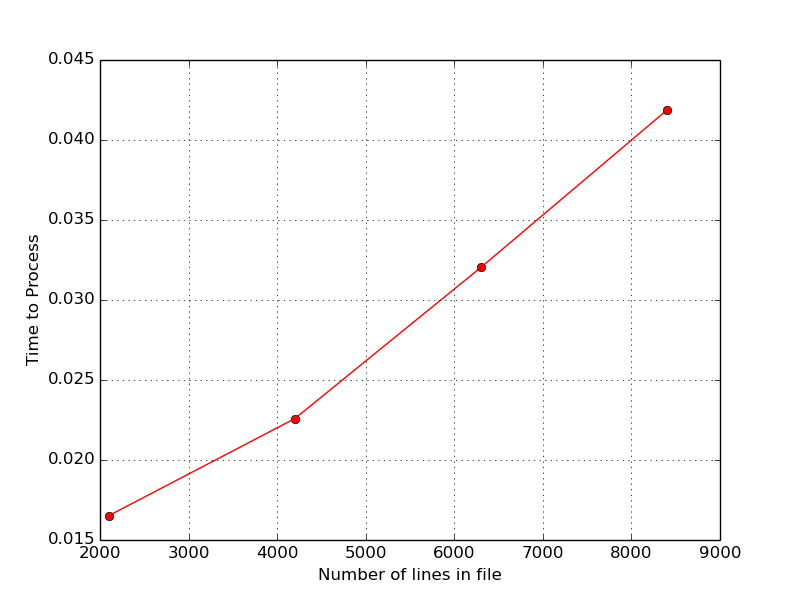
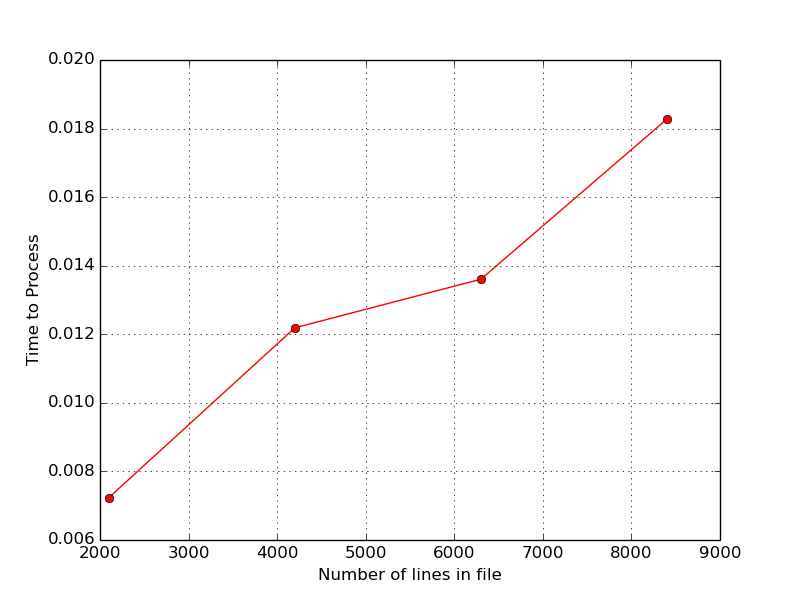
last runthrough to get eveythong at least finding an awnser

diff --git a/ipc_shared_memory/src/vectorMatch.cpp b/ipc_shared_memory/src/vectorMatch.cpp
@@ -3,7 +3,7 @@
 
 # define ROWMATRIXPOS(rowSize , row, col) (rowSize * row) + col
 # define LINENUM(rowSize , index) (rowSize / index)
-# define LTOI(rowSize, lineNumber) (lineNumber * rowSize)
+
 
 
 VectorMatch::VectorMatch(std::shared_ptr<MapString_t> nameMap, float* rawData, long lineLength){
@@ -19,15 +19,14 @@ VectorMatch::VectorMatch(std::shared_ptr<MapString_t> nameMap, float* rawData, l
 }
 
 float VectorMatch::findDist(long start1, long start2){
-    std::cout<<"testing";
-    float sum = 0;
 
+    float sum = 0;
 
     //run the l1 norm formula
     for(int i = 0; i < lineLength; i++){
-        sum += std::abs(rawData[ROWMATRIXPOS(lineLength,start1,i)] - rawData[ROWMATRIXPOS(lineLength,start2,i)]);
-    }
 
+        sum += std::abs(rawData[(start1+i)] - rawData[ROWMATRIXPOS(lineLength,start2,i)]);
+    }
 
     return sum / (float) lineLength;
 
@@ -141,34 +140,35 @@ int VectorMatch::computVectorMatch(std::string cmpFile, int k, int p,std::chrono
                 topBound += nameMap->size() % p;
             }
 
-            std::cout<<"topboud: "<<topBound<<"j: "<<procNum*divNum;
 
             //get the distances and store them into a map that auto sorts by distance
             for(long j = procNum * divNum; j < topBound -1; j++){
-
-
                 //add the distance to the results map
-                results.insert(std::pair<float,long>(findDist(cmpVecPos,LTOI(lineLength,j)),j));
+                results.insert(std::pair<float,long>(findDist(cmpVecPos,j),j*lineLength));
 
 
             }
 
-            if(results.size() > k){
-                std::cerr<<"the results var is greater than the k size"<<std::endl;
-            }
+
 
             //add the results to the proper segment of the shared memory
             int count = procNum * k;
+            int kcount = 0;
 
             for(auto& pair : results){
+                if(kcount >= k){
+                    break;
+                }
                 shm[count].dist = pair.first;
                 shm[count].lineNum = pair.second;
                 count++;
+                kcount++;
             }
+
 
             //not usre if this is going to work but lets try
             //zero out the contents
-            for(;count <= k; count++){
+            for(;count <= ((procNum*k)+k); count++){
                 shm[count].dist = FLT_MAX;
             }
 
@@ -182,13 +182,67 @@ int VectorMatch::computVectorMatch(std::string cmpFile, int k, int p,std::chrono
         }
     }
 
+//for making sure the chilren exite good
+#if 0
+    int status; // catch the status of the child
+
+    do  // in reality, mulptiple signals or exit status could come from the child
+    {
+
+        pid_t w = waitpid(pid, &status, WUNTRACED | WCONTINUED);
+        if (w == -1)
+        {
+            std::cerr << "Error waiting for child process ("<< pid <<")" << std::endl;
+            break;
+        }
+
+        if (WIFEXITED(status))
+        {
+            if (status > 0)
+            {
+                std::cerr << "Child process ("<< pid <<") exited with non-zero status of " << WEXITSTATUS(status) << std::endl;
+                continue;
+            }
+            else
+            {
+                std::cout << "Child process ("<< pid <<") exited with status of " << WEXITSTATUS(status) << std::endl;
+                continue;
+            }
+        }
+        else if (WIFSIGNALED(status))
+        {
+            std::cout << "Child process ("<< pid <<") killed by signal (" << WTERMSIG(status) << ")" << std::endl;
+            continue;
+        }
+        else if (WIFSTOPPED(status))
+        {
+            std::cout << "Child process ("<< pid <<") stopped by signal (" << WSTOPSIG(status) << ")" << std::endl;
+            continue;
+        }
+        else if (WIFCONTINUED(status))
+        {
+            std::cout << "Child process ("<< pid <<") continued" << std::endl;
+            continue;
+        }
+    }
+    while (!WIFEXITED(status) && !WIFSIGNALED(status));
+
+#endif
+
+
+
 
     int status;
+    pid_t testing = 0;
     //wait for all the child procs to finish
     for(int i = 0; i < p; i++){
         //probably not enough checks for the procs waiting but
         // i'll come back later and fix it
-        waitpid(minvan.at(i),&status, 0);
+        do{
+            testing = waitpid(minvan.at(i),&status, 0);
+
+        }while (!WIFEXITED(status) && !WIFSIGNALED(status));
+
     }
 
 
@@ -209,6 +263,7 @@ int VectorMatch::computVectorMatch(std::string cmpFile, int k, int p,std::chrono
 
     int indexer = 0;
     for(auto elem : finalResultsNum){
+        // std::cout<<elem.lineNum<<" ";
         finalResultsName.push_back(nameKeyPair());
         finalResultsName.at(indexer).filename = (*lineNumMap).at(elem.lineNum);
         finalResultsName.at(indexer).dist = elem.dist;
@@ -222,7 +277,11 @@ int VectorMatch::computVectorMatch(std::string cmpFile, int k, int p,std::chrono
     end = std::chrono::system_clock::now();
 
     //get the output out to that csv, yea
-    output_vector_to_file("results.csv",&finalResultsName);
+
+    std::string filename("results");
+    filename.append(std::to_string(p));
+    filename.append(".csv");
+    output_vector_to_file(filename,&finalResultsName);
 
     *time_elapse = end - start;
 

diff --git a/ipc_shared_memory/test/runner.cpp b/ipc_shared_memory/test/runner.cpp
@@ -33,7 +33,7 @@ int main(int argc, char** argv){
 
     chrono::duration<double> read_time_elapse;
 
-    string filename("../../../6300_HPC.csv");
+    string filename("../../../2100_HPC.csv");
     //have to remeber to free it from the heap
     // cout<<"Please enter the file path relative to this execting program, for example '../test/HPC_DATA.csv': ";
     // cin>>filename;
@@ -86,9 +86,9 @@ int main(int argc, char** argv){
             for(int i = 0; i < procs.size(); i++){
                 chrono::duration<double> proc_time_elapse;
                 cout<<procs.at(i)<<" procs"<<endl;
-                v.computVectorMatch("agricultural/agricultural00_rot_090.tif",100,procs.at(i),&proc_time_elapse);
+                //v.computVectorMatch("agricultural/agricultural00_rot_090.tif",100,procs.at(i),&proc_time_elapse);
                 //v.computVectorMatch("agricultural/agricultural00_rot_000.tif",100,procs.at(i),&proc_time_elapse);
-                //v.computVectorMatch("agricultural/agricultural00.tif",100,procs.at(i),&proc_time_elapse);
+                v.computVectorMatch("agricultural/agricultural00.tif",100,procs.at(i),&proc_time_elapse);
                 times.push_back(proc_time_elapse.count());
                 cout<<endl<<endl;
             }

diff --git a/ipc_shared_memory/plotter.py b/ipc_shared_memory/plotter.py
@@ -12,7 +12,7 @@ dataMultiFIle = np.genfromtxt('multiFile.csv',delimiter=',')
 
 plt.plot(data[0], data[1], 'ro-')
 
-plt.axis([0, 20, 0, 1.5])
+plt.axis([0, 20, 0, .1])
 
 plt.xlabel('Number of Procs')
 plt.ylabel('Time to Process')
@@ -30,4 +30,4 @@ plt.grid(True)
 fig2 = plt.gcf()
 fig2.savefig('../figs/multiFile.png')
 
-plt.show()
+#plt.show()

diff --git a/ipc_shared_memory/include/vectorMatch.hpp b/ipc_shared_memory/include/vectorMatch.hpp
@@ -13,6 +13,7 @@
 #include <fstream>
 #include <sstream>
 #include <cfloat>
+#include <exception>
 
 
 //sys ipc stuff, you know the real stuff
